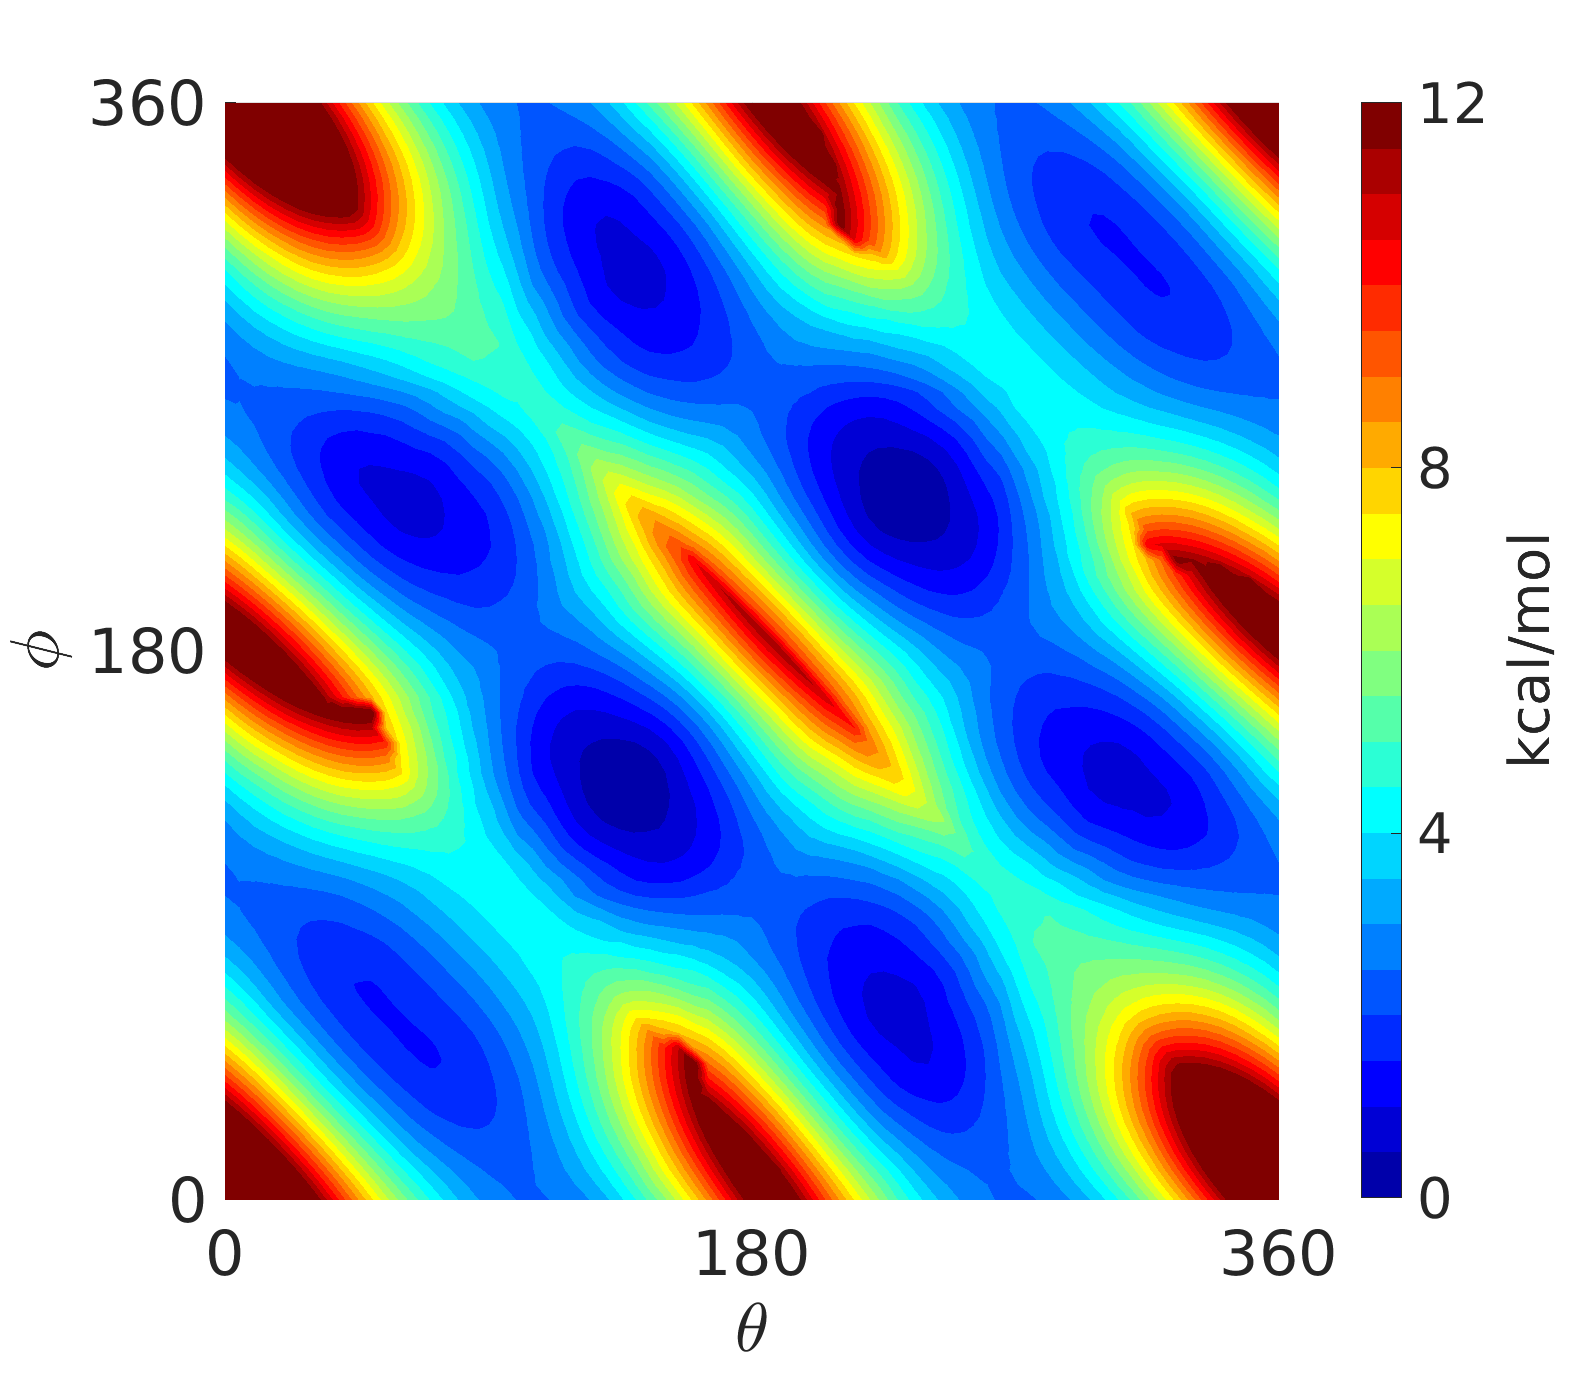
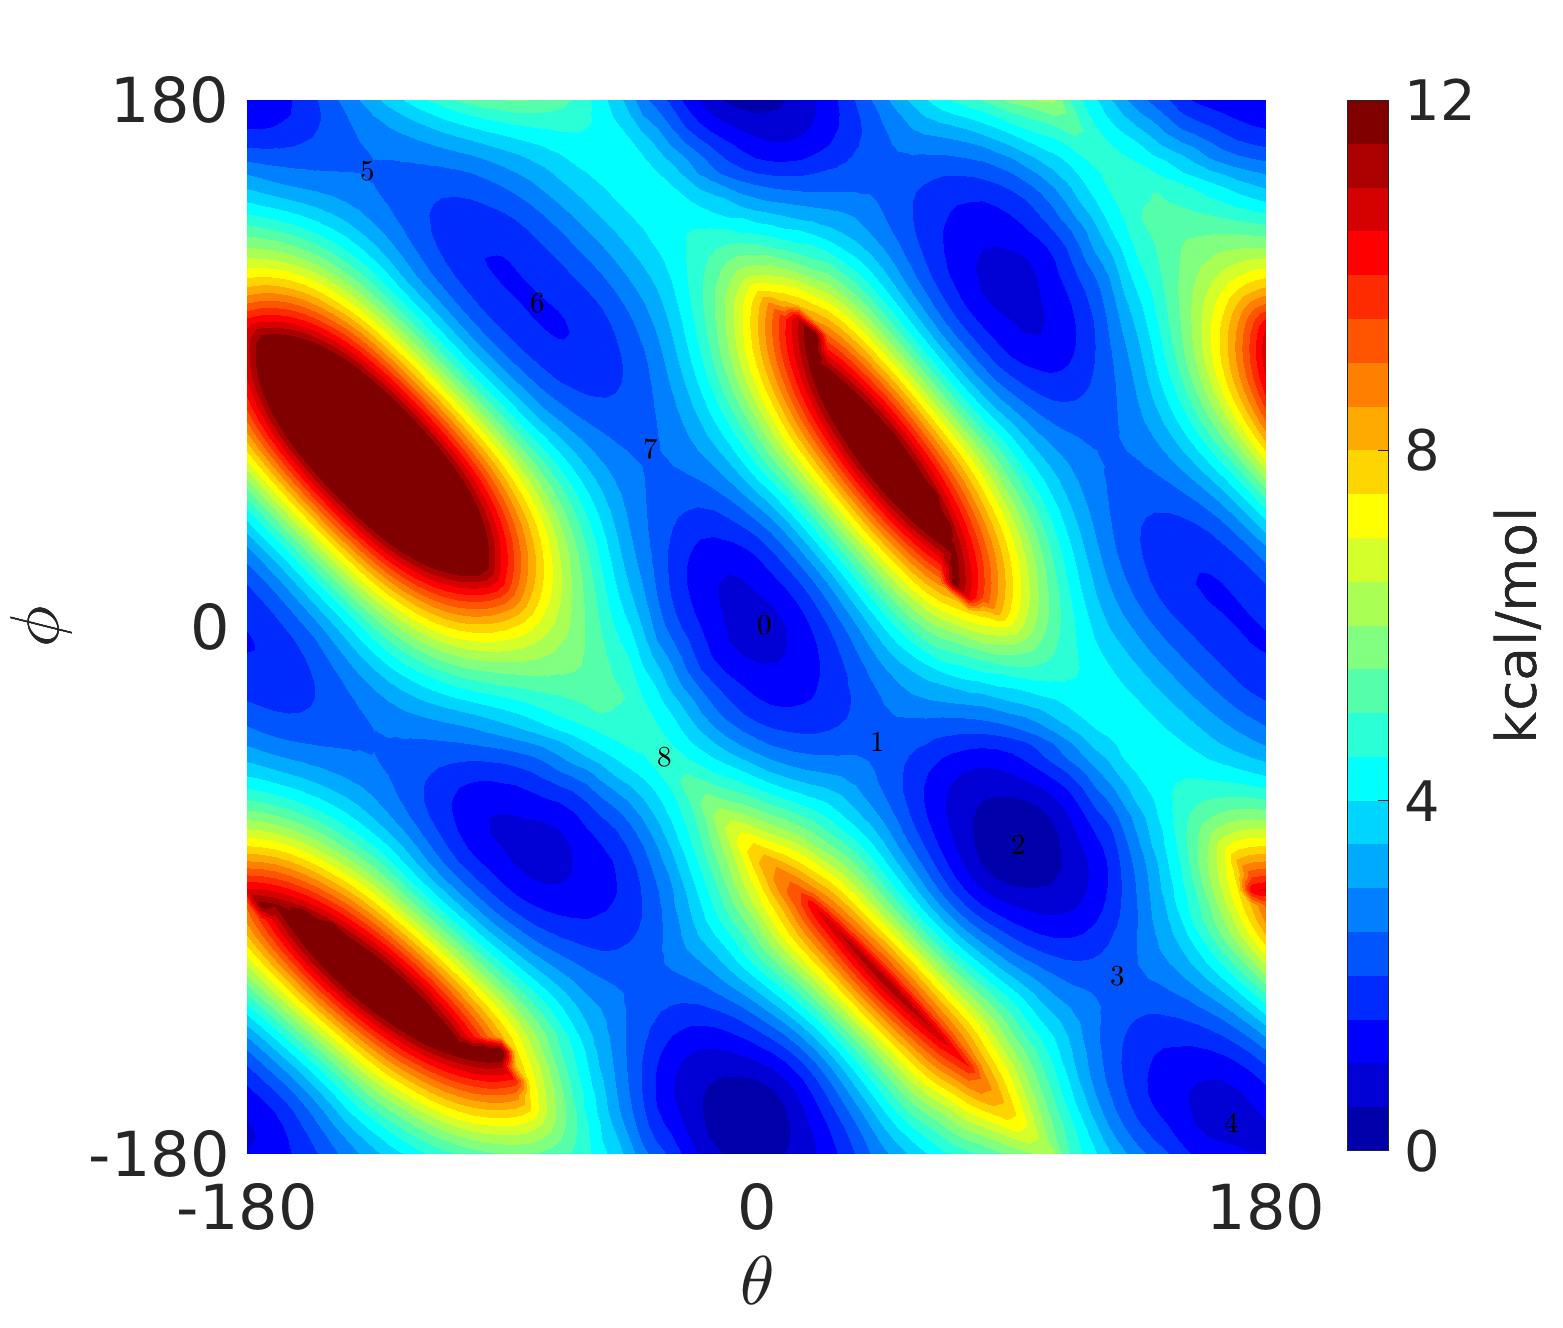
added geoms

diff --git a/plot/plotPES.m b/plot/plotPES.m
@@ -2,8 +2,8 @@ close all;
 
 n = 72;
 
-% system = '1111';
-geoms  = 'connect';
+system = '11n11';
+geoms  = 'critical';
 showpath = true;
 
 labels = [];
@@ -17,15 +17,15 @@ if (showpath==true)
                 labels = [[0,0]; [ 35, -80]; [100, -105]; [145, -150]; [175, 155]; [-145, 125]; [-100,   90]; [-45, 60]; [-30, -75]; [-30,110]; [140,115]];
             case '1101'  %[126.0, -21.3]
                 labels = [[   0,   0]; [ -30,  30]; [ -90,  90]; [ -35, 125]; [   0, 165]; [-25, -150]; [ -90, -105]; [-35,-65]; [ 40, -60]; [95,-105]; [150,-30]; ...
-                          [  95,  80]; [ 135, 125]; [ 160, 155]; [-155, 155]; [-155, -40]];
+                          [  95,  80]; [ 135, 125]; [ 160, 155]; [-155, 155]; [-155, -40]; [140, -170]; [  45, 135];];
             case '1111'  %[122.8, -38.4]
                 labels = [[   0,   0]; [  55, -40]; [  95, -90]; [ 125,-155]; [ 165, 175]; [-140, 170]; [ -85,120]; [ -60, 50]; [-40, 140]; [-40,-50]; [130,140]];
             case '10n01' %[129.8, -25.0]
-                labels = [[   0,   0]; [  40, -60]; [ 90, -120]; [140, -165]; [-160, 155]; [ -90, 65];];
+                labels = [[   0,   0]; [  40, -60]; [ 90, -120]; [140, -165]; [-160, 155]; [ -90,  65]; [-85, -25]; [  0, -105]];
             case '11n01' %[106.2, -7.2]
-                labels = [[   0,   0]; [  70,  -90]; [130, -145]; [-105,105]];
+                labels = [[   0,   0]; [  70,  -90]; [130, -145]; [-105,105]; [   0,-100]; [ -40,-145]; [-20, -165]; [ -35, 115]; [ 5,  85]];
             case '11n11' %[ 135.7, -58.7];
-                labels = [[   0,   0]; [  40,  -40]; [90,-75]; [125, -120]; [165,-170]; [-140, 155]; [-80, 110]; [ -40, 60]];
+                labels = [[   0,   0]; [  40,  -40]; [90,-75]; [125, -120]; [165,-170]; [-140, 155]; [-80, 110]; [ -40, 60]; [ -35, -45]];
             case '1301'  %[ 121.9, -19.9]
                 labels = [[   0,   0]; [  40,  -75]; [100, -110]; [145, -70]; [105, 75]; [145, 125]; [165, 155]; [-145, 135]; ...
                           [ -30, 35]; [ -55, 85]; [ -30, 125]; [  -5, 160]; [ -25, -155]; [-65, -105]; [-30, -60]; [-155, -60]];
@@ -43,28 +43,22 @@ if (showpath==true)
         switch system
             case '1001'
                 origin = [124.4, -22.8];
-                path_line = dlmread(strcat('path_', system));
-                labels = [[  0,  0]; [ 35, -75]; [100, -105]; [145, -150]; [175, 155]; [-145, 120]; [-95, 90]; [-55, 65]; path_line];                
+                labels = [[  0,  0]; [ 35, -75]; [100, -105]; [145, -150]; [175, 155]; [-145, 120]; [-95, 90]; [-55, 65]];                
             case '1101'
                 origin = [126.0, -21.3];
-                path_line = dlmread(strcat('path_', system));
-                labels = [[  0,  0]; [ 40, -60]; [ 95, -105]; [140, -170]; [160, 155]; [-155, 160]; [-90, 90]; [-30,25]; path_line];
+                labels = [[  0,  0]; [ 40, -60]; [ 95, -105]; [140, -170]; [160, 155]; [-155, 160]; [-90, 90]; [-30,25]];
             case '1111'
                 origin = [122.8, -38.4];
-                path_line = dlmread(strcat('path_', system));
-                labels = [[  0,  0]; [ 60, -35]; [ 95,  -90]; [125, -155]; [165, 175]; [-145, 170]; [-85, 120]; [-60, 50]; path_line];
+                labels = [[  0,  0]; [ 60, -35]; [ 95,  -90]; [125, -155]; [165, 175]; [-145, 170]; [-85, 120]; [-60, 50]];
             case '10n01'
                 origin = [129.8, -25.0];
-                path_line = dlmread(strcat('path_', system));                
-                labels = [[  0,  0]; [ 45, -65]; [ 90, -120]; [140, -165]; [-160, 155]; [-115,100]; [-95, 70]; [-60, 45]; path_line];
+                labels = [[  0,  0]; [ 45, -65]; [ 90, -120]; [140, -165]; [-160, 155]; [-115,100]; [-95, 70]; [-60, 45]];
             case '11n01'
                 origin = [106.2,  -7.2];
-                path_line = dlmread(strcat('path_', system));                
-                labels = [[  0,  0]; [ 70, -90]; [130, -145]; [-175, 160]; [-140, 130]; [-105, 105]; [-65, 65]; [35, -45]; path_line];
+                labels = [[  0,  0]; [ 70, -90]; [130, -145]; [-175, 160]; [-140, 130]; [-105, 105]; [-65, 65]; [35, -45]];
             case '11n11'
                 origin = [135.7, -58.7];
-                path_line = dlmread(strcat('path_', system));
-                labels = [[  0,  0]; [ 45, -40]; [ 90,  -75]; [125, -120]; [165, -165]; [-140, 160]; [-75, 110]; [-35, 55]; path_line];
+                labels = [[  0,  0]; [ 45, -40]; [ 90,  -75]; [125, -120]; [165, -165]; [-140, 160]; [-75, 110]; [-35, 55]];
             case '1301'
                 labels = [[  0,  0]; [ 35, -80]; [100, -105]];
             case '1331'
@@ -79,8 +73,10 @@ if (showpath==true)
     end
 end
 
-labels(end+1,:) = -origin;
-labels = pdd(labels + origin, 0, 360);
+if (strcmp(geoms, 'connect'))
+    labels(end+1,:) = -origin;
+end
+% labels = pdd(labels + origin, 0, 360);
     
 X = reshape(A(:,1), [n,n])';
 Y = reshape(A(:,2), [n,n])';
@@ -88,7 +84,9 @@ P = reshape(A(:,3), [n,n])';
 
 P = (P-min(min(P)))*627.509;
 
-%%{
+[Xf,Yf,Pf] = deal(X,Y,P);
+
+%{
 Pf = P;
 
 [Yf,Xf] = meshgrid(0:5:355, 0:5:355);
@@ -123,8 +121,8 @@ hold on;
 
 % scatter3(labels(:,1)', labels(:,2)', ones(1,size(labels,1))*30, 3, 'wo', 'LineWidth', 1.5);
 
-%{
-for i=1:8
+%%{
+for i=1:size(labels,1)
     text(labels(i,1),labels(i,2),30,num2str(i-1),'Interpreter','LaTex','FontSize',14,'Color','black');
 end
 %}

diff --git a/plot/read_all.m b/plot/read_all.m
@@ -1,35 +1,9 @@
-system = '1001';
-plotPES;
-VE(:,:,1) = Ve;
-VF(:,:,1) = Pf;
-LB(1:size(labels,1),:,1) = labels;
+systems = ["1001", "1101", "1111", "10n01", "11n01", "11n11"];
 
-system = '1101';
-plotPES;
-VE(:,:,2) = Ve;
-VF(:,:,2) = Pf;
-LB(1:size(labels,1),:,2) = labels;
-
-system = '1111';
-plotPES;
-VE(:,:,3) = Ve;
-VF(:,:,3) = Pf;
-LB(1:size(labels,1),:,3) = labels;
-
-system = '10n01';
-plotPES;
-VE(:,:,4) = Ve;
-VF(:,:,4) = Pf;
-LB(1:size(labels,1),:,4) = labels;
-
-system = '11n01';
-plotPES;
-VE(:,:,5) = Ve;
-VF(:,:,5) = Pf;
-LB(1:size(labels,1),:,5) = labels;
-
-system = '11n11';
-plotPES;
-VE(:,:,6) = Ve;
-VF(:,:,6) = Pf;
-LB(1:size(labels,1),:,6) = labels;
+for i=1:6
+    system = systems(i);
+    plotPES;
+    VE(:,:,i) = Ve;
+    VF(:,:,i) = Pf;
+    LB(1:size(labels,1),:,i) = labels;
+end

diff --git a/mode/floyd_warshall.m b/mode/floyd_warshall.m
@@ -1,7 +1,7 @@
 function B = floyd_warshall(P)
     n = size(P,1);
     
-    B = ones(n^2, n^2) * 20;
+    B = ones(n^2, n^2) * 100;
     for i=1:n
         for j=1:n
             row=n*(j-1)+(i-1)+1; col=n*(j-1)+(i-1)+1; B(row,col)=P(i,j);
@@ -19,6 +19,11 @@ function B = floyd_warshall(P)
     end
 
     for k=1:n^2        
-        B = min(B, max(B(:,k)*ones(1,n^2), ones(n^2,1)*B(k,:)));
+        BN = min(B, max(B(:,k)*ones(1,n^2), ones(n^2,1)*B(k,:)));
+        if (isequal(B, BN))
+            break;
+        else
+            B = BN;
+        end
     end
 end

diff --git a/plot/set_range.m b/plot/set_range.m
@@ -6,6 +6,14 @@ set(gca,'XTick',[-170:170:170]);
 set(gca,'YTick',[-170:170:170]);
 %}
 
+%%{
+set(gca,'xlim',[-180 180]);
+set(gca,'ylim',[-180 180]);
+
+set(gca,'XTick',[-180:180:180]);
+set(gca,'YTick',[-180:180:180]);
+%}
+
 %{
 set(gca,'xlim',[0 360]);
 set(gca,'ylim',[0 360]);
@@ -14,7 +22,7 @@ set(gca,'XTick',[ 10:170:350]);
 set(gca,'YTick',[ 10:170:350]);
 %}
 
-%%{
+%{
 set(gca,'xlim',[0 360]);
 set(gca,'ylim',[0 360]);
 
